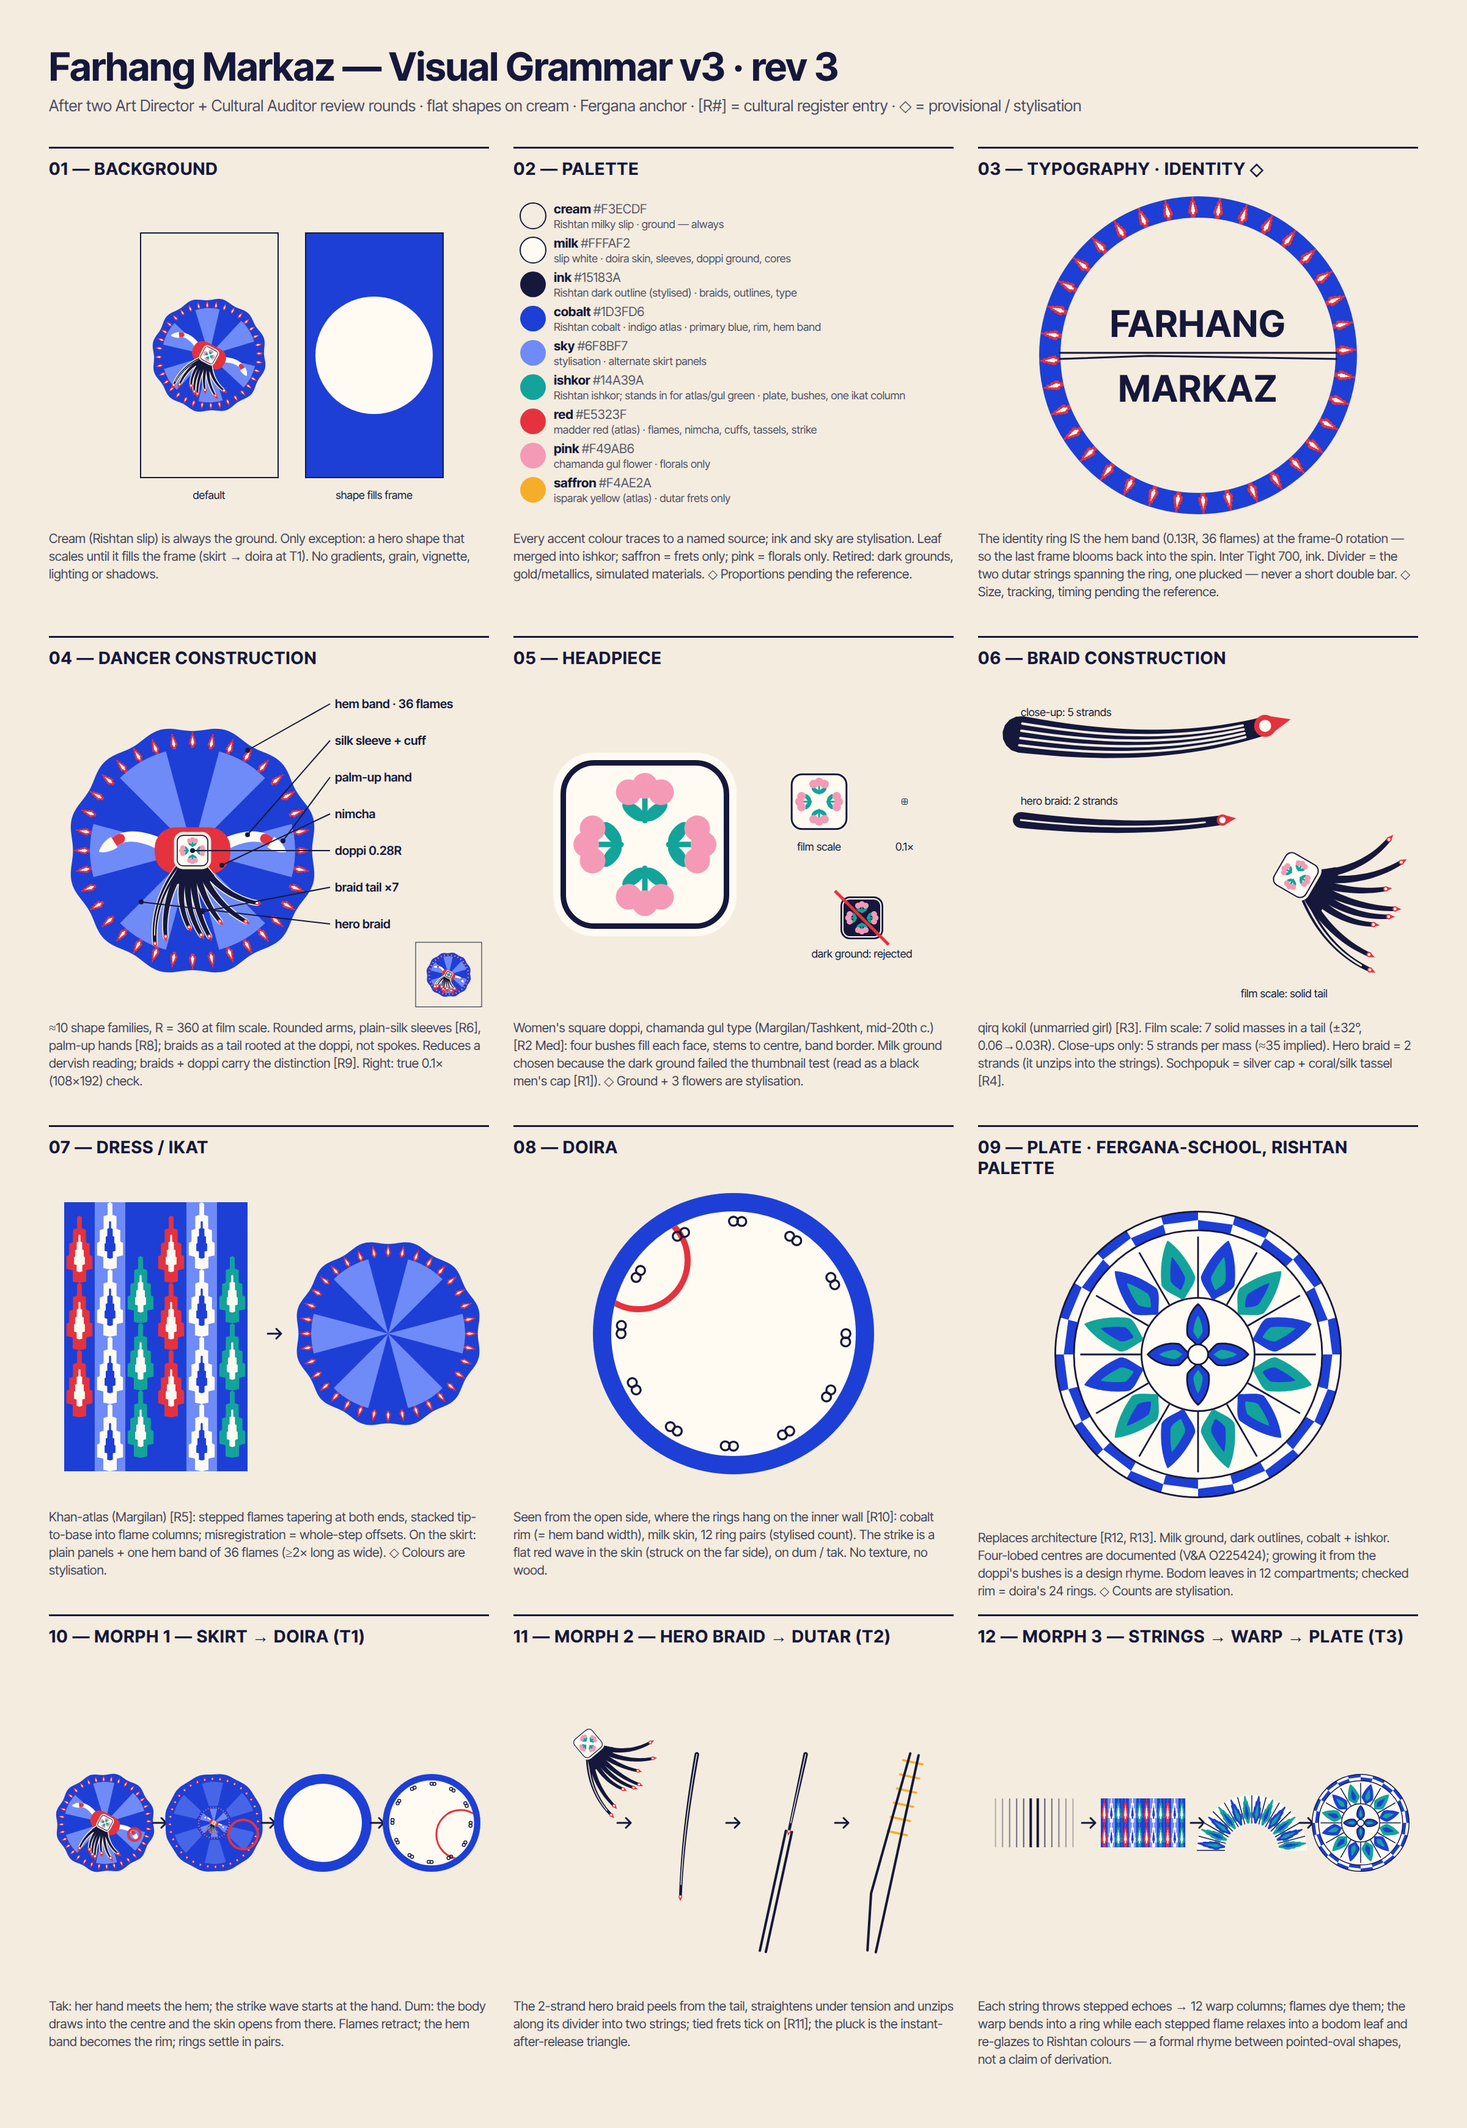
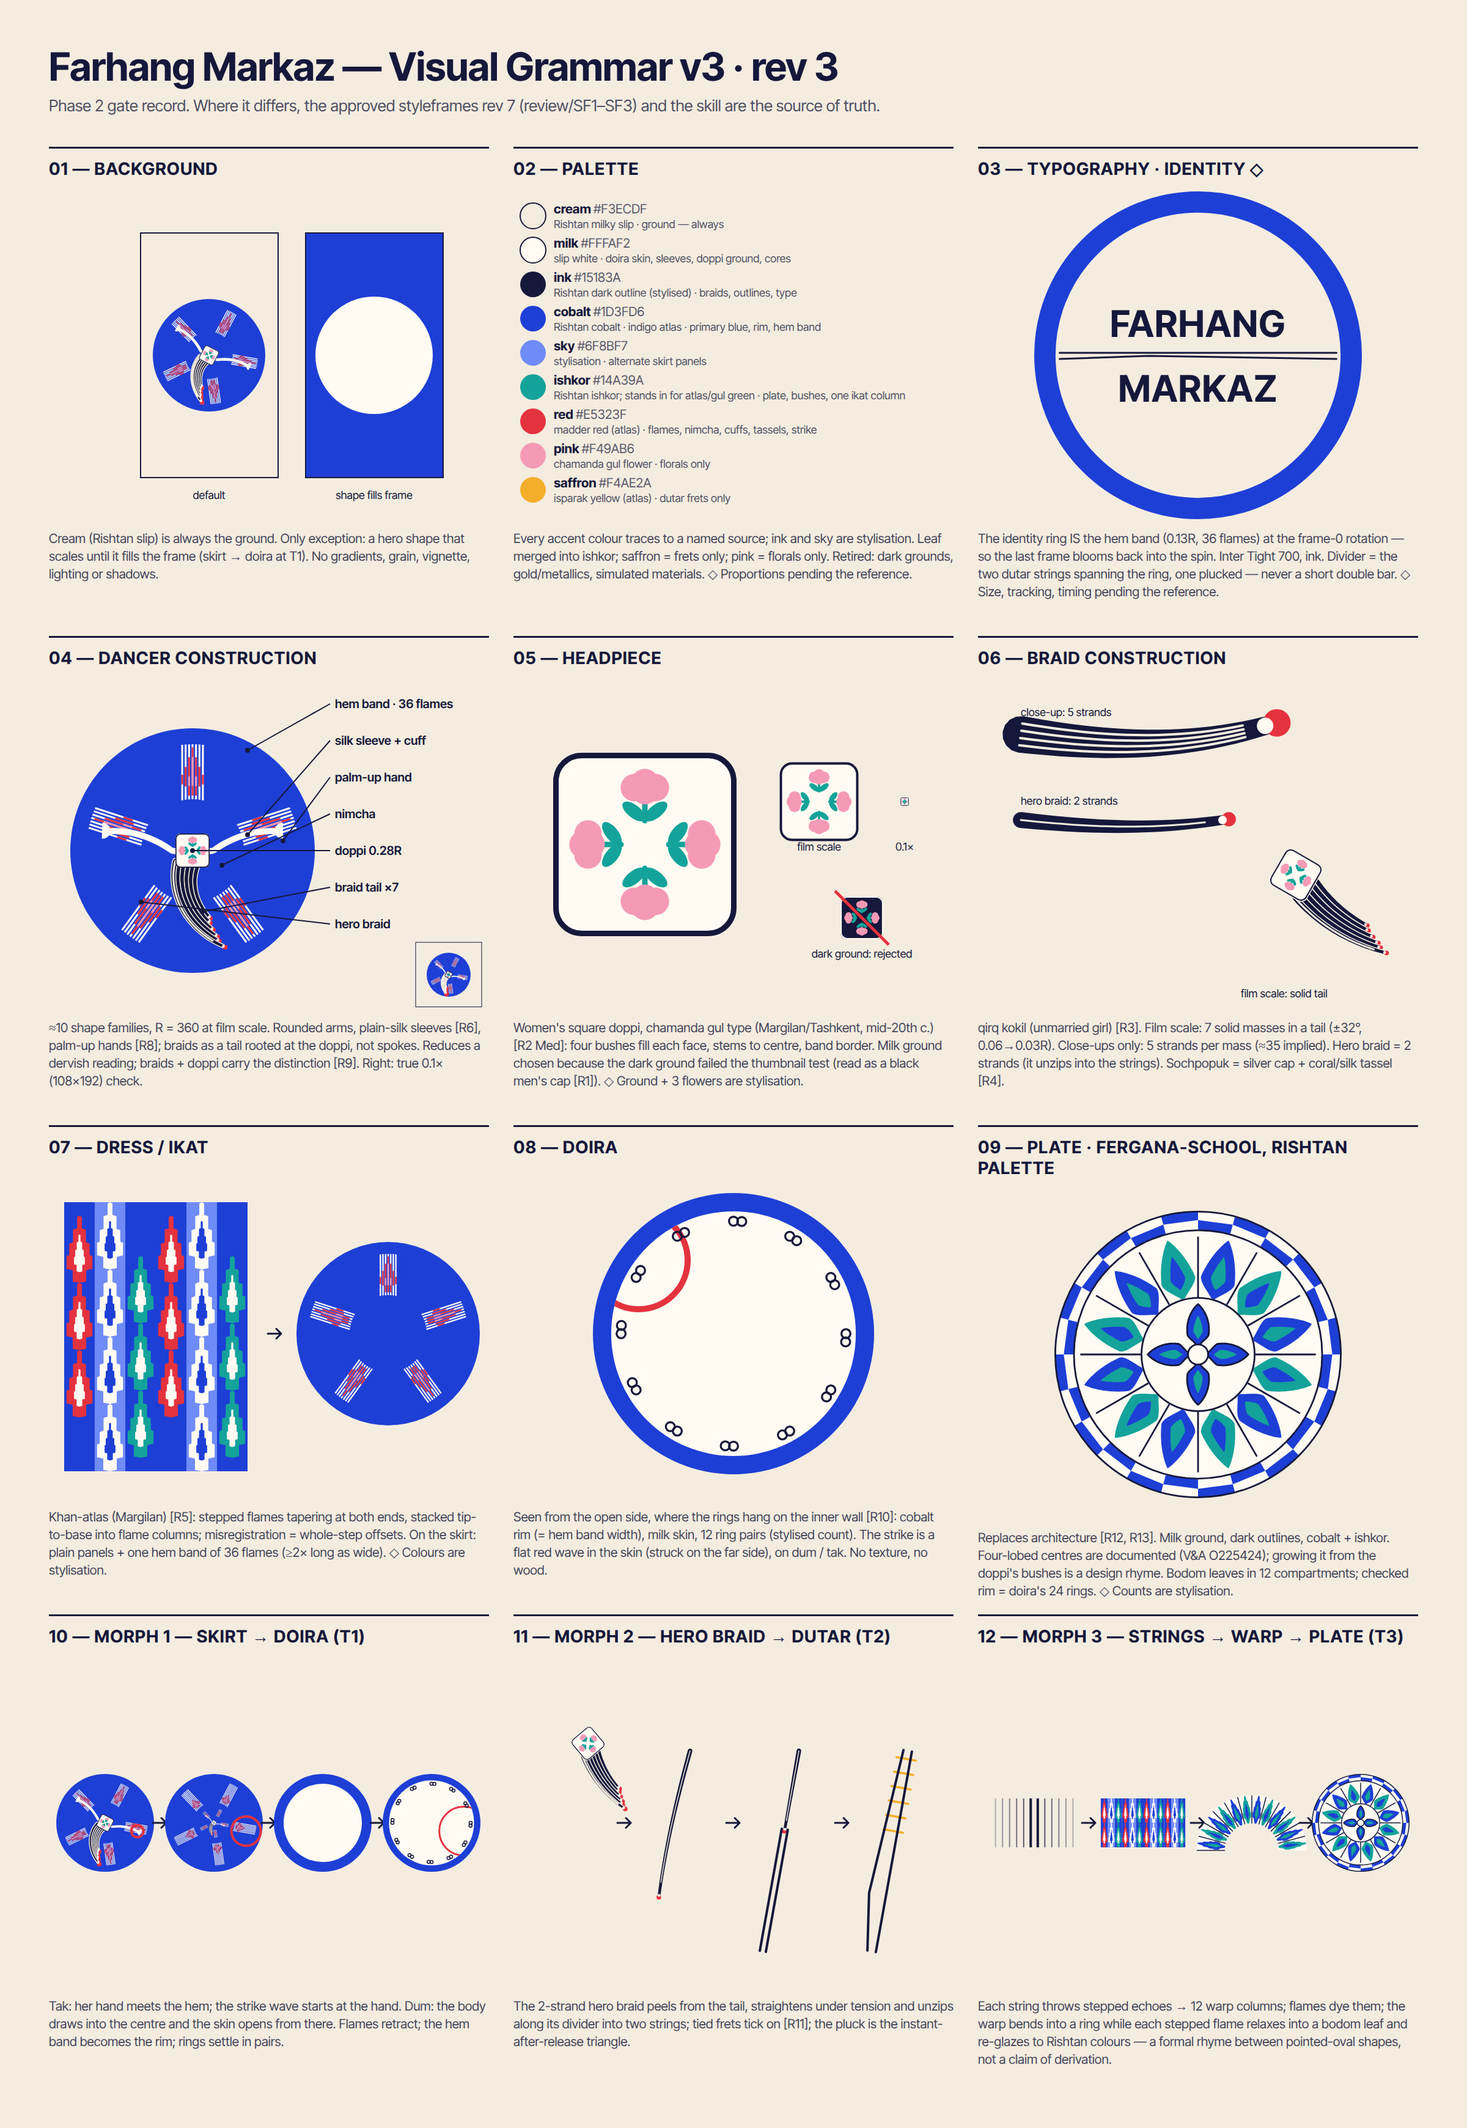
Farhang v3: styleframes rev 7 approved — skill, register and board synced
- SKILL.md sec 3/5/6/7 rewritten to the approved frames (R=460 disc anchor, 5 milk
  thread bundles, arm-arc + blunt palms, braid ribbon, abrbandi method, identity = disc +
  cap tile, wordmark above); palette roles updated
- register: rev-7 decisions (nimcha omitted, abrbandi label, braid claim, odd bundle
  count, cap wording)
- grammar board marked as Phase 2 gate record

Claude-Session: https://claude.ai/code/session_01Jkt79u1AefWyU5kVy9Hy7C

diff --git a/farhang-markaz/src/board/GrammarBoard.tsx b/farhang-markaz/src/board/GrammarBoard.tsx
@@ -85,7 +85,7 @@ export const GrammarBoard: React.FC = () => {
       <div style={{ position: "absolute", left: M, top: 70, fontFamily: sans, color: color.ink }}>
         <div style={{ fontSize: 64, fontWeight: 700, letterSpacing: "-0.01em" }}>Farhang Markaz — Visual Grammar v3 · rev 3</div>
         <div style={{ fontSize: 26, marginTop: 10, opacity: 0.75 }}>
-          After two Art Director + Cultural Auditor review rounds · flat shapes on cream · Fergana anchor · [R#] = cultural register entry · ◇ = provisional / stylisation
+          Phase 2 gate record. Where it differs, the approved styleframes rev 7 (review/SF1–SF3) and the skill are the source of truth.
         </div>
       </div>
 

diff --git a/.claude/skills/farhang-motion-language/SKILL.md b/.claude/skills/farhang-motion-language/SKILL.md
@@ -55,8 +55,8 @@ only the design consequence. Specificity, not brittle certainty: where an associ
 strong but not exclusive, say "strongly associated", not "only".
 
 Anchors in use (register IDs in brackets):
-- **Khan-atlas warp ikat** — anchored in Margilan [R5, High]. Abstracted as stepped *flame
-  columns* along the warp (radial on the overhead skirt). Lozenges only if labelled *abrbandi*.
+- **Khan-atlas warp ikat** — anchored in Margilan [R5, High]. Drawn as abrbandi resist-dye on
+  threads (§5); label "abrbandi (khan-atlas-derived)".
 - **Rishtan ceramics** — ishkor glaze; cobalt and turquoise on a milky ground with dark
   outlines; mainly floral [R12, High/Med]. Source of the cream + blue palette and of the
   ceramic beat, which replaces the former architecture beat: **radial floral zoning, not girih**.
@@ -78,44 +78,43 @@ Do not use: zardozi or metallic gold [R7]; eight-point star-and-cross or any iso
 central star, calligraphy band, mehrob niche) [R12]; mosque/madrasa façades; married-woman
 cues (e.g. headscarf over the braids).
 
-## 3. Shape vocabulary — the dancer (overhead; R = skirt radius = 360 px, loop anchor)
+## 3. Shape vocabulary — the dancer (approved styleframes rev 7)
 
-- **Skirt:** circle of radius R with shallow scallops. Inner field = 12 plain panels
-  alternating cobalt / sky. **Hem band** 0.84–0.97R (`dancer.band` = 0.13R, shared with the
-  doira rim and the identity ring) carries 36 red flames with milk cores, each ≥ 2× as long
-  as wide. Flare scales R from 0.35R → R.
-- **Nimcha:** sleeveless, one red rounded rectangle 0.62R × 0.38R — it must clear the doppi
-  front and back by ≥ 0.05R so it reads as a garment, not earmuffs.
-- **Sleeves:** plain-silk dress sleeves [R6] — milk, with a red cuff.
-- **Arms:** rounded curved capsules, never a rigid straight T. **Hands:** open palm-up ovals,
-  no fingers; hand tips ≤ 0.80R.
-- **Headpiece:** square doppi, side 0.28R, **milk ground** (the dark ground failed the
-  thumbnail test and read as the black men's cap [R1]), band border, four bushes filling
-  ~65% of each face, stems toward the centre, 3 pink flowers each (stylisation).
-- **Braids:** a **tail**, not spokes — one merged ink root mass for the first ~30% of the
-  length, then splitting into 7 solid masses rooted along the back edge of the doppi (0.12R
-  behind centre); only the outer silhouette carries a cream keyline; spread ±32°, width 0.06R → 0.03R, length 0.50–0.62R (tassels
-  stay off the hem). Strand subdivision (5 per mass, ≈35 implied) only in close-ups.
-  **Hero braid:** 2 strands with a cream divider, length 0.7R — it unzips into the dutar
-  strings. Sochpopuk = silver cap (milk) + coral/silk tassel (red) [R4].
-- **Minimum feature size:** 3 px at film scale (`dancer.minFeature`), including outlines and
-  keylines. Nothing thinner — if an outline can't be ≥ 3 px, remove it (milk on blue needs none).
-- **Hands:** palm ≈ 1.3× cuff width, teardrop pointing outward.
-- **Never drawn:** face, skin tone rendering, fingers, feet, body curves, hair strands,
-  fabric folds, stitching, shadows.
+Overhead. **R = 460 px** (≈ 85% of frame width) — the bold-blue disc at frame centre is the
+fixed loop anchor in every frame. Source: `src/shapes/*`, `src/styleframes/Styleframes.tsx`.
+
+- **Skirt:** a solid cobalt disc of radius R (true circle). The khan-atlas-derived ikat sits on
+  **5 bundles of milk warp threads** (odd count — never 4-fold rotational: a swastika-adjacent
+  read [cultural note]) running radially from 0.42R to 60 px inside the rim; the motif is
+  dyed onto the threads (`IkatThreads`). No wedges, no cards, no hem flames. The outer
+  `dancer.band` (0.13R) is implicit at rest and becomes the doira rim when the skin opens.
+- **Body:** one continuous milk **arm-arc** from hand to hand through the shoulders (rounded,
+  forward), ending straight outward in **blunt half-disc palms** (curve to the wrist, flat
+  open edge outward — no knob, no point, no curl). Nimcha omitted (stylisation, R6).
+- **Headpiece:** square doppi, 0.28R, milk ground, one ink border at the edge (no cream
+  halo), tighter corners, four bushes with one merged pink flower silhouette each
+  (stylisation of R2). Tilted 28° at frame 0.
+- **Braids:** **one swept ribbon** — 6 thin braids (0.03R) tightly parallel along a shared
+  spiral that trails the spin, ends staggered, a sochpopuk bead at each tip (milk cap + red
+  coral bead, circles only). The outermost is the hero braid (2 strands) → dutar string. It
+  reads as *long hair* at thumbnail size; claim *qirq kokil* only where strands separate
+  (close-ups) [R3].
+- **Minimum feature size:** 3 px at film scale, outlines included; strings/warp threads 12 px.
+- **Never drawn:** face, skin rendering, fingers, feet, body curves, hair strands, folds,
+  stitching, shadows, map-pin teardrops.
 
 ## 4. Palette (source of truth: `farhang-markaz/src/design/tokens.ts`)
 
 | token | hex | source | role |
 |---|---|---|---|
 | cream | `#F3ECDF` | Rishtan milky slip | background — always, except a shape that scales to fill frame |
-| milk | `#FFFAF2` | slip white | doira skin, sleeves, doppi ground, flame cores |
+| milk | `#FFFAF2` | slip white | arm-arc, palms, skirt warp threads, doppi ground, doira skin |
 | ink | `#15183A` | Rishtan dark outline (stylised blue-black) | braids, outlines, type |
 | cobalt | `#1D3FD6` | Rishtan cobalt; indigo atlas | primary blue, hem band, rim |
-| sky | `#6F8BF7` | stylisation | alternate skirt panels |
+| sky | `#6F8BF7` | stylisation | SF2 warp threads |
 | ishkor | `#14A39A` | Rishtan ishkor; stands in for atlas / chamanda-gul green | plate, doppi bushes, one ikat column |
-| red | `#E5323F` | madder red (atlas) | flames, nimcha, cuffs, tassels, strike |
-| pink | `#F49AB6` | chamanda gul flower | florals only |
+| red | `#E5323F` | madder red (atlas) | ikat dye (outer), tassel beads, strike |
+| pink | `#F49AB6` | chamanda gul flower | cap flowers, ikat dye core |
 | saffron | `#F4AE2A` | isparak yellow (atlas) | dutar frets only |
 
 Every **accent** colour traces to a named source; ink and sky are stylisation. Retired: dark
@@ -124,53 +123,46 @@ hues without updating tokens.ts and this table together.
 
 ## 5. Motif abstractions
 
-- **Doira:** seen from the open side [R10]: cobalt rim (width = hem band) + milk skin + 12
-  ring pairs on the inner wall (stylised count). The strike is a flat red wave in the skin
-  (struck on the far side), synced to *dum* / *tak*.
-- **Dutar:** exactly two parallel lines with short tied-fret bars; if the body is shown, the
-  long-neck pear silhouette.
-- **Ikat:** stepped flames tapering at both ends, stacked tip-to-base into continuous
-  flame columns; misregistration = whole-step offsets, never blur. One column in three
-  carries ishkor (atlas green). Pink, sky and the misregistration are stylisation [R5].
-- **Fergana-school plate, Rishtan palette** [R12]: milk ground; dark zone outlines; cobalt +
-  ishkor only (no red, no pink). Centre = radiating four-lobed motif grown from the doppi's
-  four bushes; middle field = bodom leaves, each in its own compartment (the bent warp);
-  rim = checked band, 24 cells per row = the doira's 24 rings. Counts are stylisation.
-- **Identity divider:** the two dutar strings (two parallel lines), never one line.
+- **Ikat (one method everywhere):** abrbandi resist-dye — one stepped flame motif dyed onto
+  parallel threads (exactly thread-width, on the thread path), bundle offsets mirror-symmetric
+  on three levels; red outer, pink core; motif length / half-width = `dancer.ikatAspect` (4)
+  in every frame so skirt and warp are visibly the same cloth. Label it **"abrbandi
+  (khan-atlas-derived)"**, not plain "khan-atlas" [R5].
+- **Warp (SF2):** 24 sky threads at disc width, full frame height (the ring is a window),
+  one ink thread = the plucked dutar string; raised-cosine bend, neighbours decay, threads
+  more than 6 away stay straight.
+- **Doira:** seen from the open side [R10]: cobalt rim (width = `dancer.band`), milk skin,
+  ring pairs on the inner wall (stylised count); strike = flat red wave, on *dum* / *tak*.
+- **Dutar:** two parallel strings, tied-fret bars only in close-up T2 frames.
+- **Fergana-school plate, Rishtan palette** [R12]: milk ground, dark outlines, cobalt + ishkor
+  only; four-lobed centre (documented; derivation from the doppi = design rhyme); bodom
+  compartments; checked rim. Counts are stylisation.
 
-## 6. Transition grammar (preserved from v1–v2 — this is the project's core asset)
+## 6. Transition grammar
 
 Every transition shares geometry, direction, rhythm or material logic. Objects never pop in.
-- **T1 skirt → doira:** *tak* — her hand meets the hem and the strike wave starts at the hand;
-  *dum* — the body (arms, nimcha, braids, doppi) draws into the centre and the milk skin opens
-  from that point. Flames retract; the hem band becomes the rim; rings settle in pairs.
-- **T2 hero braid → dutar:** the 2-strand hero braid peels from the tail, straightens under
-  tension and unzips along its divider into the two strings; tied frets tick on; the pluck
-  is the instant-after-release triangle.
-- **T3 strings → warp → plate:** each string throws stepped echoes → 12 warp columns; flames
-  dye the columns; the warp bends into a ring (`bend`, t 0 → 1) while each stepped flame
-  relaxes into a bodom leaf (same vertices, `smooth` 0 → 1) and re-glazes to the Rishtan
-  palette — a formal rhyme between pointed-oval shapes, **not** a claim that ikat flames
-  derive from bodom.
-- **Origins inside the plate:** rim checks = doira rings; four-lobed centre = doppi bushes
-  (four-lobed centres are documented on Fergana-school dishes; the doppi derivation is a
-  design rhyme, not a cultural link).
-- **Hem band → identity ring → frame 0:** the identity ring is the hem band with its 36
-  flames at the frame-0 centre, radius and rotation; the loop blooms back into the spin.
-- The world accumulates: each return to the dancer keeps something from the scene before.
-- Speed is shown through shape (braid lag, stretch, spacing), never through blur.
-- Morph engineering: generate paths in code with identical structure (same vertex/segment
-  counts) and interpolate parameters; never tween unrelated path strings.
+One stage on screen at a time; the 920 px disc is the constant stage.
+- **T1 skirt → doira:** *tak* at her hand, then the body (arms, cap, braids) draws into the
+  centre and the milk skin opens from it on *dum*; the bundles clear; the outer band is the rim.
+- **T2 hero braid → dutar:** the hero braid peels from the ribbon, straightens, unzips into
+  two strings; frets tick on; one string is plucked.
+- **T3 string → warp → plate:** the pluck spreads to neighbouring threads (decaying); the
+  motif is dyed across the threads; the warp then bends into the plate's ring (`bend`) while
+  stepped flames relax into bodom leaves (formal rhyme, not derivation) and re-glaze.
+- **Identity → frame 0:** end-card hold = solid disc + cap tile (0.7R, 28°); in the loop
+  handoff the tile eases to 0.28R and the arm-arc, braids and bundles bloom out of it.
+- The world accumulates; speed is shown through shape, never blur; morphs interpolate
+  parameters on identical structures.
 
 ## 7. Typography
 
-- Wordmark **FARHANG MARKAZ** in a clean geometric sans (default: Inter Tight, OFL,
-  vendored in `public/fonts`), ink on cream, set inside the identity ring (markaz = centre).
-  Divider = the two dutar strings spanning the full inner diameter of the ring, anchored on
-  the hem band, one slightly plucked — never a short double bar (it reads as "=").
-- No wide-tracked luxury serif. Size/tracking/entry timing are provisional pending the
-  reference.
+- Wordmark **FARHANG MARKAZ**, Inter Tight 600 (OFL, vendored), ink, one line, set **above**
+  the disc (out of the bottom platform-UI zone), width locked to the disc diameter.
+  The disc never moves to make room for type.
+- ◇ Size, tracking and entry timing remain provisional pending the client's reference.
 - Safe areas in 1080×1920: key text ≥ 80 px from sides, ≥ 160 px from top/bottom.
+- Never describe the chamanda gul cap as *the* Fergana symbol in copy (one documented type, R2);
+  don't call *farhang* an Uzbek word without verification (register open item).
 
 ## 8. Motion and sound
 
@@ -196,6 +188,8 @@ around her. 7. Final spin → hem ring → FARHANG MARKAZ identity → loops to 
 
 - Flat SVG, masks, transforms, procedural React. Centralised tokens (`tokens.ts`) and cue
   map (`timeline.ts`); never hard-code event frames in scene files.
+- Source of truth for look: approved styleframes rev 7 (`farhang-markaz/review/SF1-3`, code in
+  `src/styleframes`). The grammar board is the Phase 2 gate record only.
 - Workflow gates: visual grammar board → Art Director + Cultural Auditor pass → three
   styleframes → Adversarial Critic + Cultural Auditor → motion + sound → implementation.
 - Review checklist for every frame:

diff --git a/farhang-markaz/docs/cultural-register.md b/farhang-markaz/docs/cultural-register.md
@@ -56,6 +56,17 @@ Source quality: primary · academic · museum · secondary · tourism · commerc
   leaves per bush; **milk ground** (stylisation — the dark ground failed the 0.1× thumbnail
   test and read as the black men's cap [R1]). Flower count and ground colour are stylisation.
 
+## Design decisions recorded at styleframe approval (rev 7)
+
+- **Nimcha omitted** (stylisation). R6 remains the reference if a garment layer returns.
+- **Ikat label:** "abrbandi (khan-atlas-derived)" — the drawn motif is a symmetric stepped
+  flame on threads; plain "khan-atlas" slightly overclaims [R5].
+- **Braids:** one swept ribbon of 6 braids reads as long hair at thumbnail; claim qirq kokil
+  only where separate strands are visible [R3].
+- **Skirt bundle count = 5** (odd): avoids a 4-fold rotational, swastika-adjacent read.
+- **Identity:** solid disc + doppi tile; describe the cap as one documented women's cap type,
+  not *the* Fergana symbol [R2].
+
 ## Design decisions recorded after the Phase 2 gate
 
 - Morph 3 (stepped ikat flame → smooth bodom leaf) is a **formal rhyme** between shared
